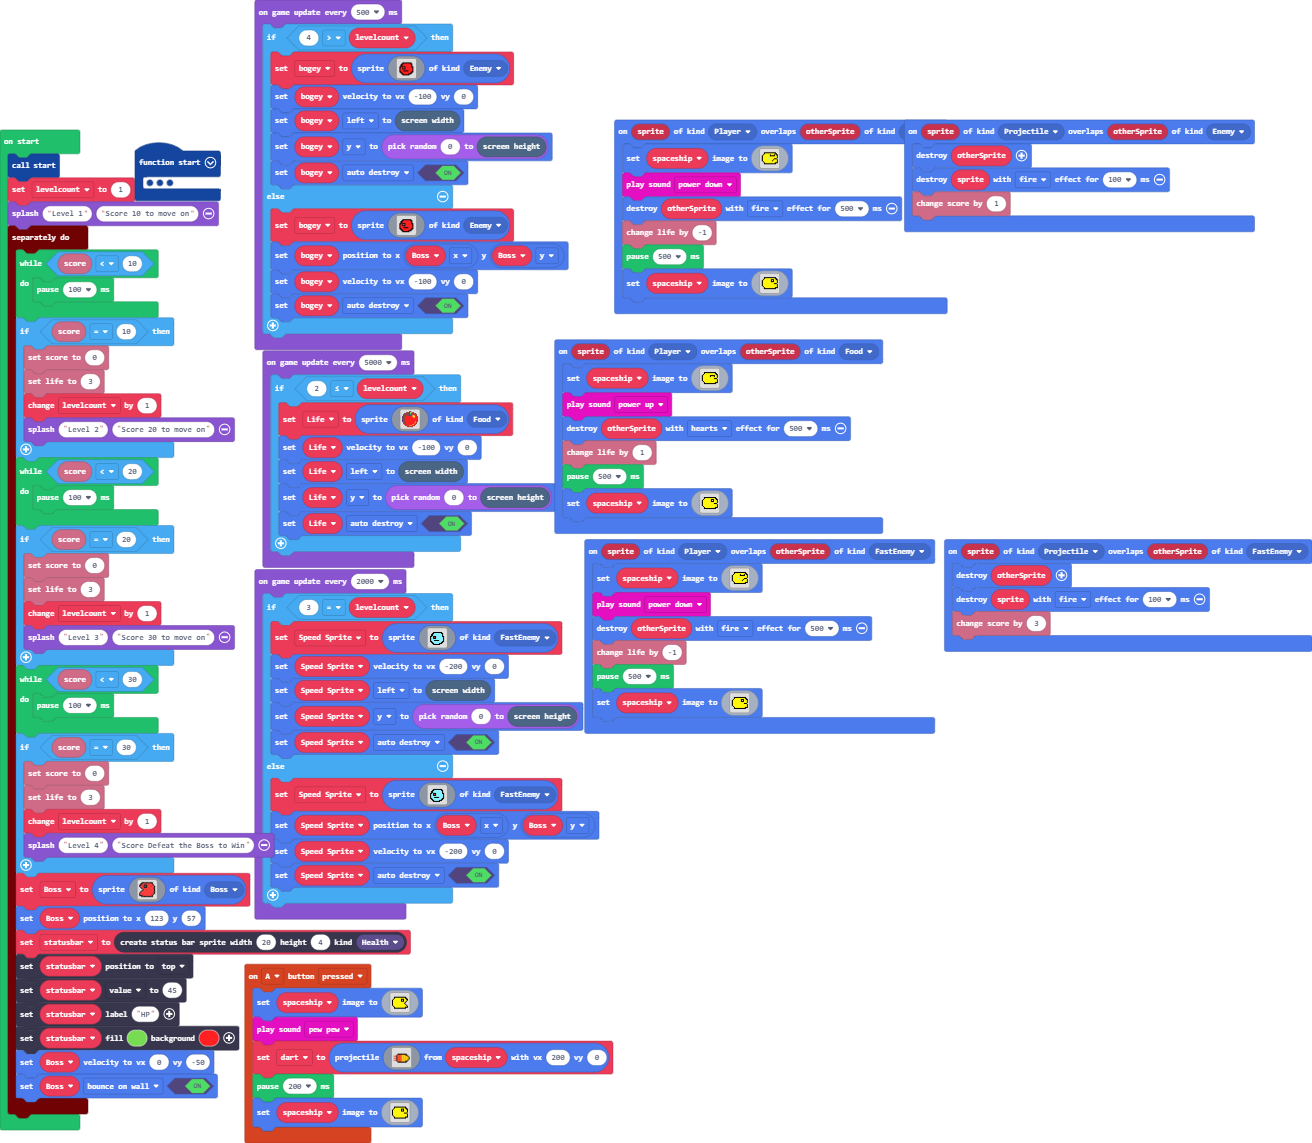
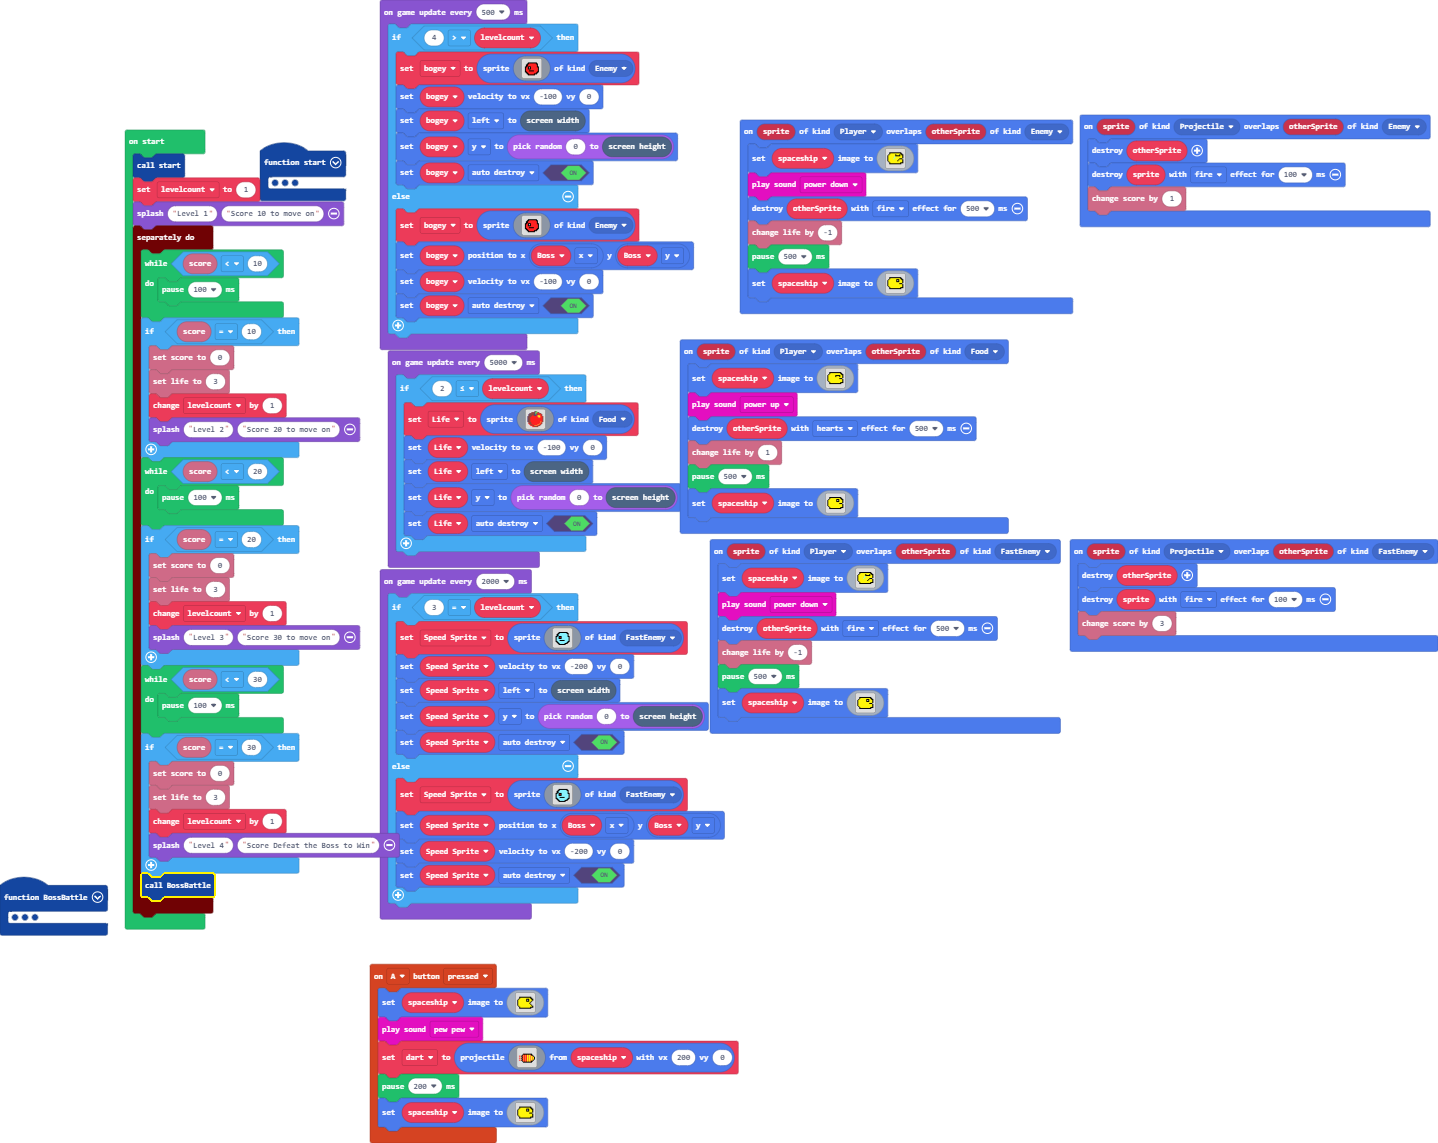
Made BossBattle Function

diff --git a/main.ts b/main.ts
@@ -52,6 +52,44 @@ controller.A.onEvent(ControllerButtonEvent.Pressed, function () {
         . . f f f f f f f f f f f f . . 
         `)
 })
+function BossBattle () {
+    Boss = sprites.create(img`
+        1111ffffffffffffffffffff....
+        1111ffffffffffffffffffff....
+        11ffff2222222222222222ff....
+        11ffff2222222222222222ff....
+        ffff2222ffffff2222222222ff..
+        ffff2222ffffff2222222222ff..
+        ff222222ff22ff222222222222ff
+        ff222222ff22ff222222222222ff
+        ..ff2222ffffff222222222222ff
+        ..ff2222ffffff222222222222ff
+        ....ff22222222222222222222ff
+        ....ff22222222222222222222ff
+        ......ff222222222222222222ff
+        ......ff222222222222222222ff
+        ....ff22222222222222222222ff
+        ....ff22222222222222222222ff
+        ..ff2222222222222222222222ff
+        ..ff2222222222222222222222ff
+        ff222222222222222222222222ff
+        ff222222222222222222222222ff
+        ff2222222222222222222222ff..
+        ff2222222222222222222222ff..
+        ffffff2222222222222222ff....
+        ffffff2222222222222222ff....
+        ....ffffffffffffffffffff....
+        ....ffffffffffffffffffff....
+        `, SpriteKind.Boss)
+    Boss.setPosition(123, 57)
+    statusbar = statusbars.create(20, 4, StatusBarKind.Health)
+    statusbar.positionDirection(CollisionDirection.Top)
+    statusbar.value = 45
+    statusbar.setLabel("HP")
+    statusbar.setColor(7, 2)
+    Boss.setVelocity(0, -50)
+    Boss.setFlag(SpriteFlag.BounceOnWall, true)
+}
 sprites.onOverlap(SpriteKind.Projectile, SpriteKind.FastEnemy, function (sprite, otherSprite) {
     otherSprite.destroy()
     sprite.destroy(effects.fire, 100)
@@ -186,10 +224,10 @@ sprites.onOverlap(SpriteKind.Player, SpriteKind.Enemy, function (sprite, otherSp
 let bogey: Sprite = null
 let Speed_Sprite: Sprite = null
 let Life: Sprite = null
-let dart: Sprite = null
-let spaceship: Sprite = null
 let statusbar: StatusBarSprite = null
 let Boss: Sprite = null
+let dart: Sprite = null
+let spaceship: Sprite = null
 start()
 let levelcount = 1
 game.splash("Level 1", "Score 10 to move on")
@@ -221,42 +259,7 @@ timer.background(function () {
         levelcount += 1
         game.splash("Level 4", "Score Defeat the Boss to Win")
     }
-    Boss = sprites.create(img`
-        1111ffffffffffffffffffff....
-        1111ffffffffffffffffffff....
-        11ffff2222222222222222ff....
-        11ffff2222222222222222ff....
-        ffff2222ffffff2222222222ff..
-        ffff2222ffffff2222222222ff..
-        ff222222ff22ff222222222222ff
-        ff222222ff22ff222222222222ff
-        ..ff2222ffffff222222222222ff
-        ..ff2222ffffff222222222222ff
-        ....ff22222222222222222222ff
-        ....ff22222222222222222222ff
-        ......ff222222222222222222ff
-        ......ff222222222222222222ff
-        ....ff22222222222222222222ff
-        ....ff22222222222222222222ff
-        ..ff2222222222222222222222ff
-        ..ff2222222222222222222222ff
-        ff222222222222222222222222ff
-        ff222222222222222222222222ff
-        ff2222222222222222222222ff..
-        ff2222222222222222222222ff..
-        ffffff2222222222222222ff....
-        ffffff2222222222222222ff....
-        ....ffffffffffffffffffff....
-        ....ffffffffffffffffffff....
-        `, SpriteKind.Boss)
-    Boss.setPosition(123, 57)
-    statusbar = statusbars.create(20, 4, StatusBarKind.Health)
-    statusbar.positionDirection(CollisionDirection.Top)
-    statusbar.value = 45
-    statusbar.setLabel("HP")
-    statusbar.setColor(7, 2)
-    Boss.setVelocity(0, -50)
-    Boss.setFlag(SpriteFlag.BounceOnWall, true)
+    BossBattle()
 })
 game.onUpdateInterval(5000, function () {
     if (2 <= levelcount) {
